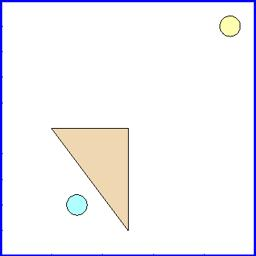
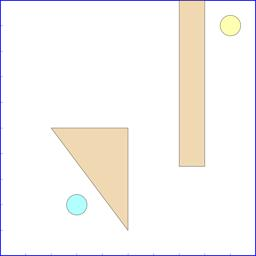
change file and showEnv

diff --git a/GUI.m b/GUI.m
@@ -78,7 +78,7 @@ function exitBttn_Callback(hObject, eventdata, handles)
 % hObject    handle to exitBttn (see GCBO)
 % eventdata  reserved - to be defined in a future version of MATLAB
 % handles    structure with handles and user data (see GUIDATA)
-close all;
+close all; % closes all the figures that are currently displayed in Matlab
 
 
 function envInput_Callback(hObject, eventdata, handles)
@@ -89,7 +89,7 @@ function envInput_Callback(hObject, eventdata, handles)
 % Hints: get(hObject,'String') returns contents of envInput as text
 %        str2double(get(hObject,'String')) returns contents of envInput as a double
 filename = get(hObject, 'String');
-disp(filename);
+% disp(filename);
 textLabel = sprintf('environment file has been changed to: %s', filename);
 set(handles.envFeedback, 'String', textLabel);
 
@@ -112,3 +112,8 @@ function showEnvBttn_Callback(hObject, eventdata, handles)
 % hObject    handle to showEnvBttn (see GCBO)
 % eventdata  reserved - to be defined in a future version of MATLAB
 % handles    structure with handles and user data (see GUIDATA)
+filename = get(handles.envInput, 'String');
+% disp(filename);
+axes(handles.plot);
+
+SSS.test(filename, handles);

diff --git a/SSS.m b/SSS.m
@@ -305,8 +305,8 @@ classdef SSS < handle
 	    % showEnv()
 	    %		Display the environment
 	    %%%%%%%%%%%%%%%%%%%%%%%%%%%%%%%%%%%%%%%%%%%%%%
-	    function showEnv(obj)
-            obj.sdiv.env.showEnv();
+	    function showEnv(obj, handles)
+            obj.sdiv.env.showEnv(handles);
 	    end
 
 	end
@@ -319,10 +319,10 @@ classdef SSS < handle
 	    %%%%%%%%%%%%%%%%%%%%%%%%%%%%%%%%%%%%%%%%%%%%%%
 	    % test()
 	    %%%%%%%%%%%%%%%%%%%%%%%%%%%%%%%%%%%%%%%%%%%%%%
-	    function flag = test()
-            s = SSS('env3.txt');
-            s.showEnv();
-            s.run(1);
+	    function flag = test(filename, handles)
+            s = SSS(filename);
+            s.showEnv(handles);
+%             s.run(1);
             flag = true;
         end
                 

diff --git a/Environment.m b/Environment.m
@@ -120,9 +120,9 @@ classdef Environment < handle
         %%%%%%%%%%%%%%%%%%%%%%%%%%%%%%%%%%%%%%%%%%%%%%
         % Display Environment:
         %%%%%%%%%%%%%%%%%%%%%%%%%%%%%%%%%%%%%%%%%%%%%%
-        function obj = showEnv(obj)
-            figure(1);
-            clf(1);  % clear fig 1 (or else it overlays previous display)
+        function obj = showEnv(obj, handles)
+%             figure(1);
+            cla;  % clear axes in GUI
             axis square tight;
             alpha(0.3);	% Transparency (to show overlaps)
             % Show Bounding Box:
